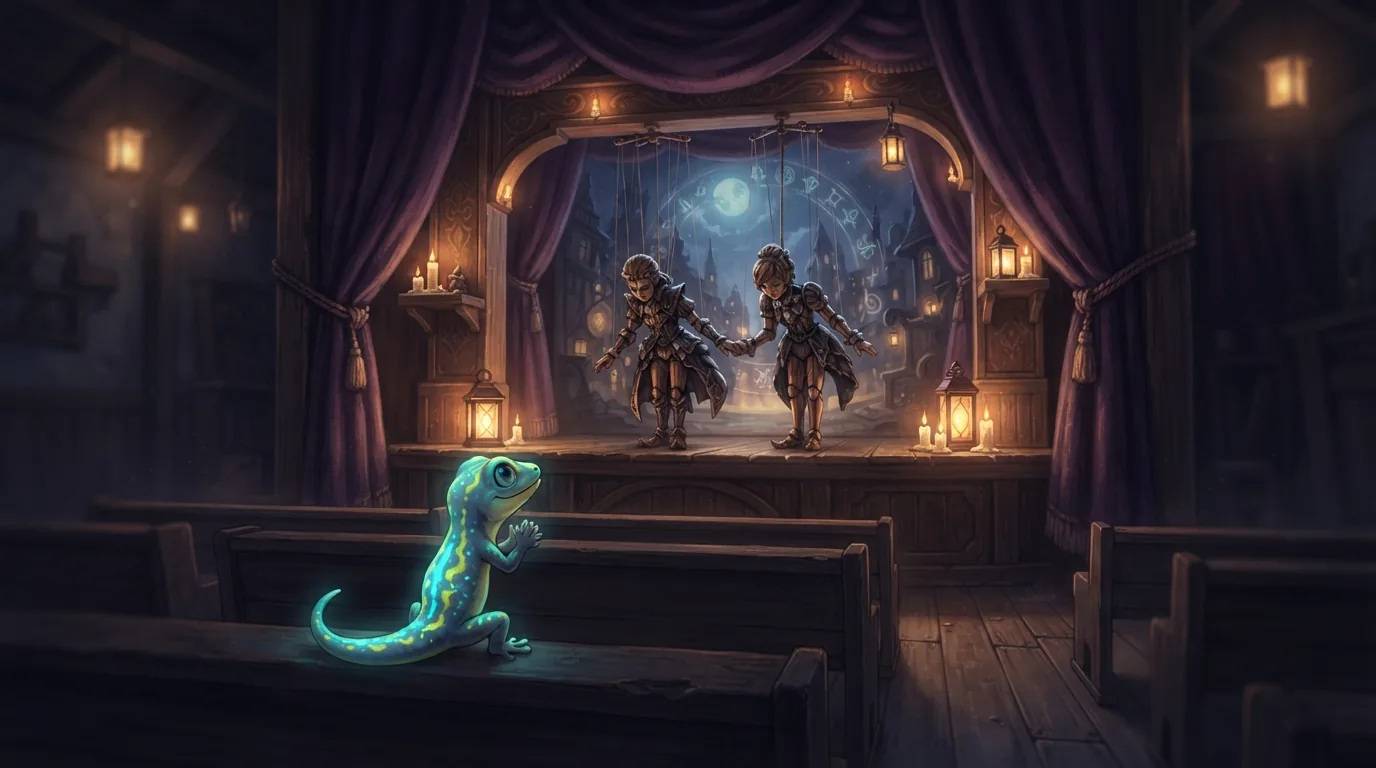
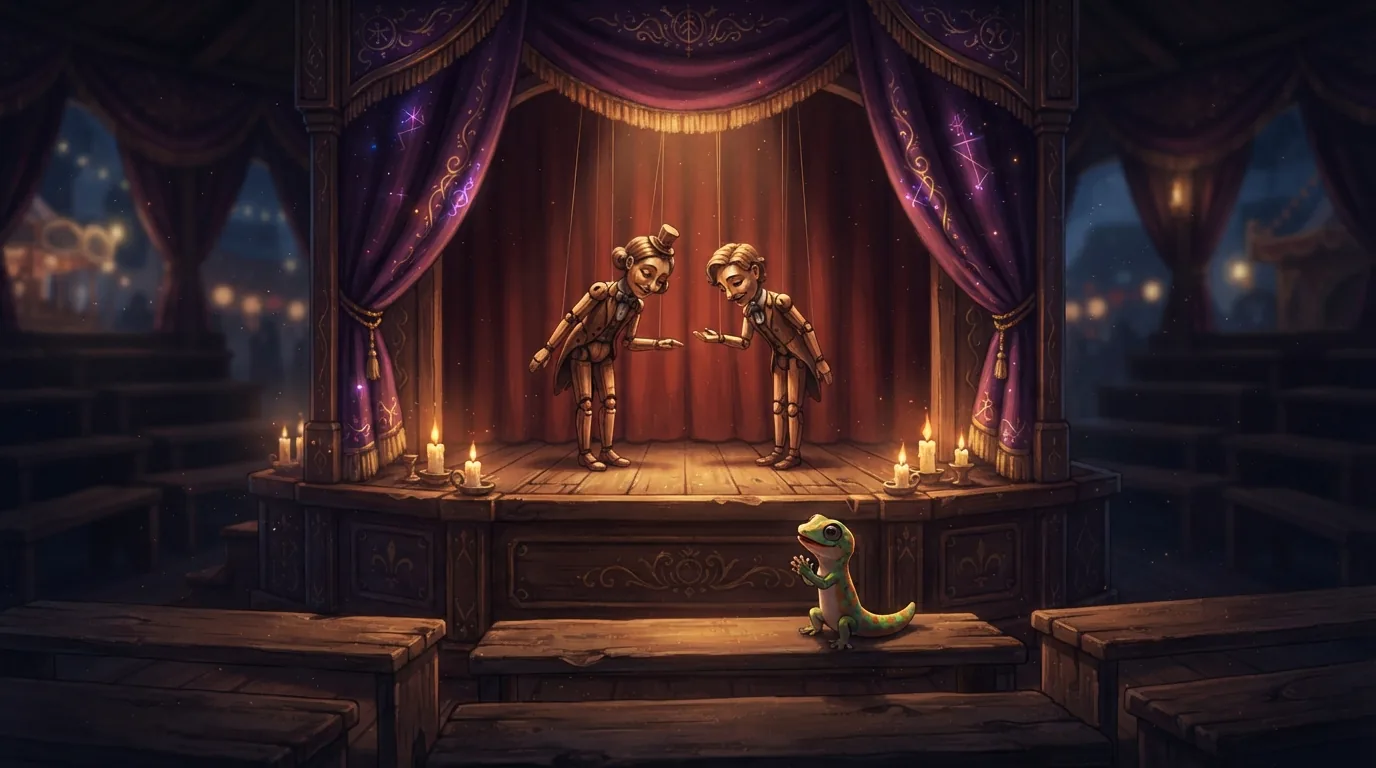
content(js): escenas R03-N01 y R03-N02 (105 de 313); pendientes.py fija la ropa de Hilván, Bruno y Tati, y el color de Gheco

diff --git a/scripts/escenas/pendientes.py b/scripts/escenas/pendientes.py
@@ -45,7 +45,7 @@ REFS = {
             (r'Drag[oó]n', 'el Dragón bajo la Montaña', ['1beb2b13ac2740e39ec873e25f0a9d2a', '05f46ee7ccb54ec5b3521163315fe841'], ''),
             (r'Salamandra', 'la Salamandra del Horno', ['f00b5bd8e0b541fd925273a2f23e8a1e', 'f94717f4f0ea4451a188eeb0c6077d24'], ''),
             (r'Aut[oó]mata Guardi[aá]n', 'el Autómata Guardián', ['be394c154b3544cd84a0f6cb5304046d', 'ae330b94011143dd97df7dab07894b9c'], ''),
-            (r'Gheco|gecko', 'Gheco', ['7475890398726357700'], 'Gheco es un gecko chiquito, que cabe en la palma de una mano.'),
+            (r'Gheco|gecko', 'Gheco', ['7475890398726357700'], 'Gheco es un gecko chiquito, que cabe en la palma de una mano, de color cian brillante con manchas amarillas.'),
         ],
     },
     # D110: el Gólem duerme debajo de las Forjas, así que sus escenas van en el proyecto de C (ahí están Gheco y Kira).
@@ -59,7 +59,7 @@ REFS = {
             (r'Ax[oó]n', 'Axón', ['a3f048dbdb0144748446e592787f2bdb', 'c4b3a82e96bb49e689670d429bea0fba'],
              'Axón es un gólem de bronce de cuatro metros: Nova le llega a la rodilla.'),
             (r'(?<!que )\bKira\b', 'Kira', ['14393643890262141765', '14393643890262141939'], ''),
-            (r'Gheco|gecko', 'Gheco', ['7475890398726357700'], 'Gheco es un gecko chiquito, que cabe en la palma de una mano.'),
+            (r'Gheco|gecko', 'Gheco', ['7475890398726357700'], 'Gheco es un gecko chiquito, que cabe en la palma de una mano, de color cian brillante con manchas amarillas.'),
         ],
     },
     'cpp': {
@@ -76,7 +76,7 @@ REFS = {
             # Solo el cuerpo entero: los circulares de este proyecto llevan el nombre escrito y Stitch lo copiaría.
             # Bron y Gheco se generaron en este proyecto el 2026-10-11 desde sus fichas y sus imágenes (no estaban subidos).
             (r'\bBron\b', 'Bron', ['36fd6421d03b45329e15255c57bf1d96'], 'Bron es un mecánico grandote de 24 años, alto y ancho, con una llave inglesa cian al hombro.'),
-            (r'Gheco|gecko', 'Gheco', ['8b96c262b47549dbb5a441fb463377a5'], 'Gheco es un gecko chiquito, que cabe en la palma de una mano.'),
+            (r'Gheco|gecko', 'Gheco', ['8b96c262b47549dbb5a441fb463377a5'], 'Gheco es un gecko chiquito, que cabe en la palma de una mano, de color cian brillante con manchas amarillas.'),
             (r'\bTesla\b', 'Tesla', ['17568498787211306263'], 'Tesla es un muchacho de estatura mediana (1,75 m), delgado, de pelo en punta y visor cian.'),
             (r'\bLima\b', 'Lima', ['3741430dea15423a86d24bbd54d5c72f'], 'Lima es una chica chiquita (1,52 m), mucho más baja que los demás, con dos rodetes y una lupa de relojera en un ojo.'),
             (r'Maestra Art[ií]fice|[Ii]nspectora', 'la Maestra Artífice', ['4954292303660227400'], 'La Maestra Artífice es una mujer alta (1,72 m), delgada y erguida.'),
@@ -109,7 +109,7 @@ REFS = {
             # Generados en este proyecto el 2026-10-11 (Nilo y Elefa desde sus imágenes oficiales; el resto, desde sus fichas).
             (r'\bNilo\b', 'Nilo', ['3defe2e1780843e09e4c04400943f0b8'], 'Nilo es un muchacho de 17 años, de estatura mediana (1,70 m) y delgado, con gorra de mensajero y bufanda violeta.'),
             (r'\bElefa\b', 'Elefa', ['ede888afd1934fa6a2d4853f2f4ef6b1'], 'Elefa es una elefanta enorme (2,60 m) erguida en dos patas, con armadura: le saca casi un metro a una persona.'),
-            (r'Gheco|gecko', 'Gheco', ['bce6aece6b9c43939e86fd2b757679ad'], 'Gheco es un gecko chiquito, que cabe en la palma de una mano.'),
+            (r'Gheco|gecko', 'Gheco', ['bce6aece6b9c43939e86fd2b757679ad'], 'Gheco es un gecko chiquito, que cabe en la palma de una mano, de color cian brillante con manchas amarillas.'),
             (r'\bIara\b', 'Iara', ['5d09d4c2cd01468999e671616ec88913'], 'Iara es bajita (1,58 m): más baja que Nilo.'),
             (r'Ferm[ií]n|[Bb]odeguero', 'Fermín', ['fc1a64872e8e420ab4ca98a70c73800a'], 'Fermín es un anciano bajo y encorvado.'),
             (r'\bMarea\b|[Ff]arera', 'Marea', ['15758130c92349e88c7ca83c931fcae1'], 'Marea es una mujer alta (1,78 m) y fuerte: más alta que Nilo.'),
@@ -134,7 +134,7 @@ REFS = {
              'Iris lleva UNA SOLA trenza gruesa, de costado, que le cae sobre un hombro (nunca dos trenzas), pelo castaño cobrizo con mechones de colores dentro de la trenza, anteojos redondos.'),
             (r'Tesela', 'Tesela', ['1156350282938354434', '1156350282938353708'],
              'Tesela e Iris son casi de la misma altura (Tesela apenas unos centímetros más alta).'),
-            (r'Gheco|gecko', 'Gheco', ['11514129442070458985'], 'Gheco es un gecko chiquito, que cabe en la palma de una mano.'),
+            (r'Gheco|gecko', 'Gheco', ['11514129442070458985'], 'Gheco es un gecko chiquito, que cabe en la palma de una mano, de color cian brillante con manchas amarillas.'),
             # Subidos el 2026-10-10. Solo el cuerpo entero: los circulares llevan el nombre escrito y Stitch lo copiaría.
             (r'\bNora\b', 'Nora', ['e01c853235f1406f8ae015a41a3ddb13'],
              'Nora es ciega y alta, más alta que Iris; lleva túnica gris perla y un bastón blanco.'),
@@ -159,7 +159,7 @@ REFS = {
         'ambiente': 'en una feria de pueblo europea antigua, de noche, con carpas a rayas, banderines de colores lisos, faroles de vidrio y hierro, guirnaldas de foquitos amarillos, luciérnagas, puestos de madera y una calesita; nada oriental, sin carteles, sin máscaras ni símbolos pintados',
         'ambientes': {
             '02-la-avenida-de-los-faroles.md': 'en una avenida de feria de pueblo europea antigua, de noche, con faroles altos de hierro y vidrio a los dos lados, adoquines, guirnaldas y luciérnagas',
-            '03-el-teatro-del-titiritero.md': 'en un teatro de títeres de feria, con telón de terciopelo violeta, escenario de madera, títeres colgados y velas, de noche',
+            '03-el-teatro-del-titiritero.md': 'en un teatro de títeres de feria, con telón de terciopelo violeta, escenario de madera con el fondo de tela lisa, títeres colgados y velas, de noche',
             '04-la-torre-de-las-flechas.md': 'en una torre de piedra alta en el borde de la feria, con dianas, flechas de luz amarilla que cruzan el cielo nocturno y palomas',
             '05-el-taller-del-vidriero.md': 'en el taller abandonado de un vidriero, con vitrales de colores, mesas de vidrio, engranajes, una chimenea y luz de luciérnagas',
             '06-senda-escaparate-vivo.md': 'en una vidriera de los Talleres de los Vitrales armada en la avenida de la feria, con vidrios de colores, telas y faroles',
@@ -172,12 +172,12 @@ REFS = {
             # La segunda referencia es la escena de la calesita (R01-N03-P1): ahí la ropa salió cerrada; con la ficha sola, el modelo liviano a veces le deja la panza al aire.
             (r'\bNima\b', 'Nima', ['2fca95e351484814bbdeb8294f4c623b', 'c1beb5a9084e4492b1d9fb759dd0eb35'], 'Nima aparece UNA sola vez. Nima tiene la piel morena oscura y lleva la chaqueta de cuero negra CERRADA con el cierre subido, larga hasta la cadera, como en la escena de la calesita: nada de panza ni piel del torso a la vista.'),
             (r'Lumina', 'Lumina', ['bdf51a14044046ffbd08a31cec35773e'], 'Lumina es una luciérnaga enorme, del tamaño de una persona, que flota: un INSECTO de verdad, como en su referencia (seis patitas, antenas, coronita dorada, alas de vidrio y el abdomen que brilla amarillo); nada de hada ni de cuerpo de persona.'),
-            (r'Gheco|gecko', 'Gheco', ['11514129442070458985'], 'Gheco es un gecko chiquito, que cabe en la palma de una mano.'),
-            (r'\bBruno\b', 'Bruno', ['aa2b4f906be344918c60e9553fed907c'], 'Bruno es un chico de 12 años.'),
-            (r'\bTati\b', 'Tati', ['4ed7e467fe034ed48f852420a3cbebf3'], 'Tati es una chica de 11 años, bajita.'),
+            (r'Gheco|gecko', 'Gheco', ['11514129442070458985'], 'Gheco es un gecko chiquito, que cabe en la palma de una mano, de color cian brillante con manchas amarillas.'),
+            (r'\bBruno\b', 'Bruno', ['aa2b4f906be344918c60e9553fed907c'], 'Bruno es un chico de 12 años, con gorra negra al revés, chaleco ROJO inflado sobre buzo oscuro y zapatillas rojas.'),
+            (r'\bTati\b', 'Tati', ['4ed7e467fe034ed48f852420a3cbebf3'], 'Tati es una chica de 11 años, bajita, de piel clara, dos coletas negras, vestido azul con cuello blanco y delantal amarillo.'),
             (r'\bLucio\b', 'Lucio', ['edd2a5c8a13b42318521115982f1721c'], 'Lucio es un viejo flaco y alto.'),
             (r'\bSaeta\b', 'Saeta', ['ecbeb78a4f69490890b76c7a7da87384'], ''),
-            (r'Hilv[aá]n', 'Hilván', ['3c08241be0d04d6cb8ddc5c8a8528ff1'], 'Hilván es un hombre joven, delgado y alto, de cara amable.'),
+            (r'Hilv[aá]n', 'Hilván', ['3c08241be0d04d6cb8ddc5c8a8528ff1'], 'Hilván es un hombre joven, delgado y alto, de cara amable, pelo negro, chaleco de terciopelo VIOLETA abotonado sobre camisa clara de mangas largas (nunca abrigo largo ni camisa oscura).'),
             (r'Mirta', 'Doña Mirta', ['5e23bd2445d0489983d6634747e16bca'], 'Doña Mirta es petisa y redonda.'),
             (r'Bengala', 'Bengala', ['0cdbd18c90b04669bacd4d7eb03c96b0'], ''),
             (r'\bTano\b', 'Don Tano', ['5ee266e65e5242958dbe87a10b6d24c2'], ''),
@@ -224,7 +224,7 @@ REFS = {
              'Iris lleva UNA SOLA trenza gruesa, de costado, que le cae sobre un hombro (nunca dos trenzas), pelo castaño cobrizo con mechones de colores dentro de la trenza, anteojos redondos.'),
             (r'Tesela', 'Tesela', ['1156350282938354434', '1156350282938353708'],
              'Tesela e Iris son casi de la misma altura (Tesela apenas unos centímetros más alta).'),
-            (r'Gheco|gecko', 'Gheco', ['11514129442070458985'], 'Gheco es un gecko chiquito, que cabe en la palma de una mano.'),
+            (r'Gheco|gecko', 'Gheco', ['11514129442070458985'], 'Gheco es un gecko chiquito, que cabe en la palma de una mano, de color cian brillante con manchas amarillas.'),
             (r'\bNora\b', 'Nora', ['e01c853235f1406f8ae015a41a3ddb13'],
              'Nora es ciega y alta, más alta que Iris; lleva túnica gris perla y un bastón blanco.'),
             (r'\bTeo\b', 'Teo', ['21a330a7f37f44ae88efae1965f5261c'],
@@ -246,7 +246,7 @@ REFS = {
             (r'\bMia\b', 'Mia', ['5963293020836080820'], 'Mia es bajita (1,55 m) y delgada.'),
             (r'\bTilo\b', 'Tilo', ['5696938930910017018'], 'Tilo es un chico bajo, flaco y fibroso, descalzo.'),
             (r'Ofidia', 'Ofidia', ['10928700517117951865'], 'Ofidia es muy alta (1,90 m) y esbelta: le saca más de una cabeza a Mia.'),
-            (r'Gheco|gecko', 'Gheco', ['15690829756280996174'], 'Gheco es un gecko chiquito, que cabe en la palma de una mano.'),
+            (r'Gheco|gecko', 'Gheco', ['15690829756280996174'], 'Gheco es un gecko chiquito, que cabe en la palma de una mano, de color cian brillante con manchas amarillas.'),
             (r'Guardi[aá]n del Puente', 'el Guardián del Puente', ['13111980321235167624'], ''),
             (r'Archivista', 'el Archivista Corrupto', ['76f4476e7b8e459fa75b72cbe7906fbb'], ''),
             (r'G[oó]lem', 'el Gólem del Reloj', ['11d43dda059d4a2b8de8c6e1c8077d0c'], ''),
@@ -280,7 +280,7 @@ REFS = {
             (r'\bZed\b', 'Zed', ['5522991768613220027'], 'Zed es alto (1,80 m), delgado y fibroso.'),
             (r'\bNadia\b', 'Nadia', ['17346538076052872870'], 'Nadia es de estatura mediana, más baja que Zed, muy erguida.'),
             (r'\bKaffa\b', 'Kaffa', ['8221925489435297833'], 'Kaffa es alto, de hombros anchos, más alto que Zed.'),
-            (r'Gheco|gecko', 'Gheco', ['7453549721618962721'], 'Gheco es un gecko chiquito, que cabe en la palma de una mano.'),
+            (r'Gheco|gecko', 'Gheco', ['7453549721618962721'], 'Gheco es un gecko chiquito, que cabe en la palma de una mano, de color cian brillante con manchas amarillas.'),
             (r'Escriba', 'el Escriba Jefe', ['b12044f03eb646dca40ac3c69a952478'], 'El Escriba Jefe es bajo, panzón y un poco encorvado.'),
             (r'Maestra de Moldes', 'la Maestra de Moldes', ['8bed9638b6a0475a9f697e8c247b0e30'], 'La Maestra de Moldes es alta y de hombros anchos.'),
             (r'Archivista', 'el Archivista Mayor', ['f64f0eb5f95045789403ea7d4bf54696'], 'El Archivista Mayor es alto y muy flaco, un poco encorvado.'),
